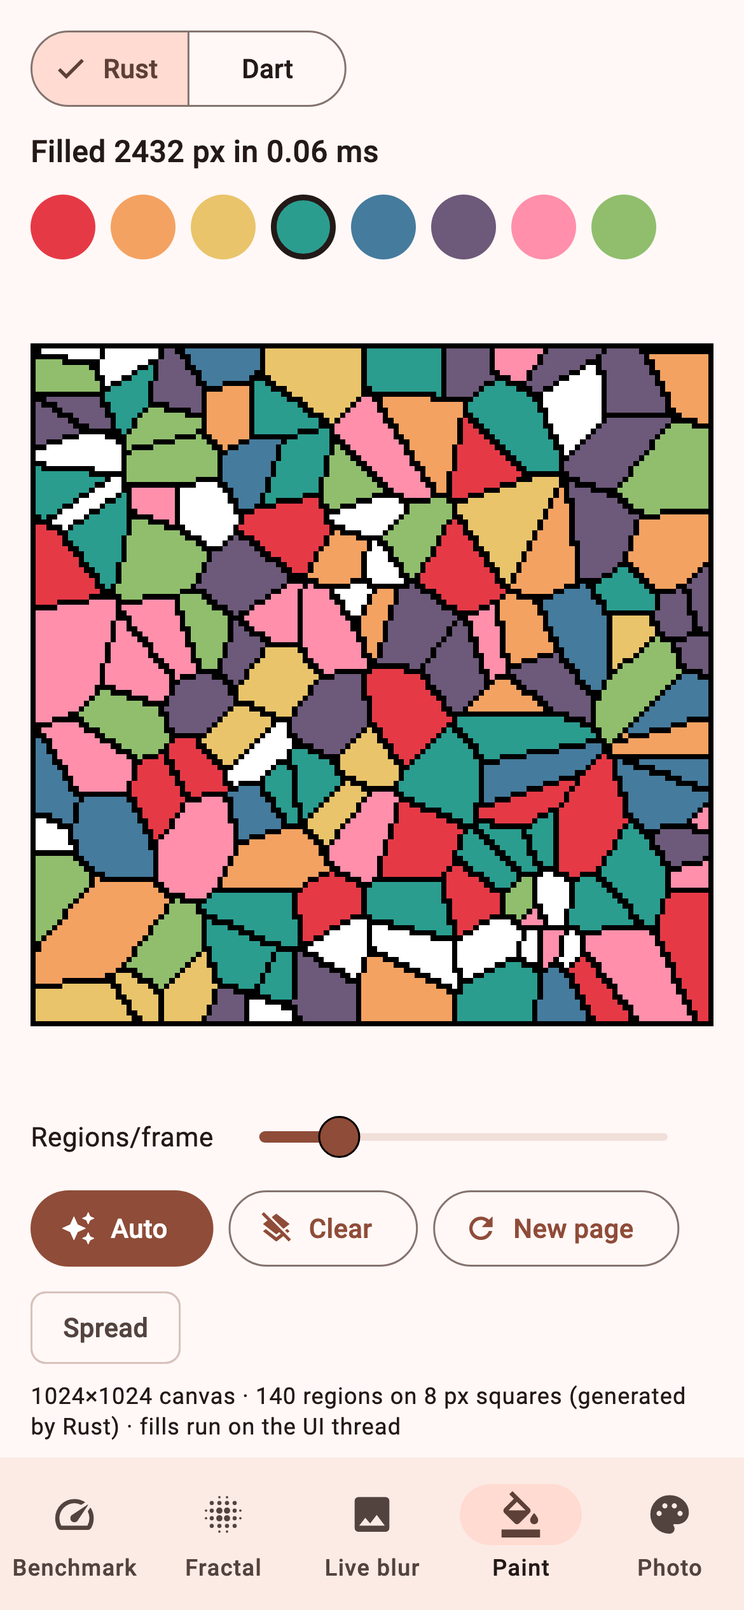
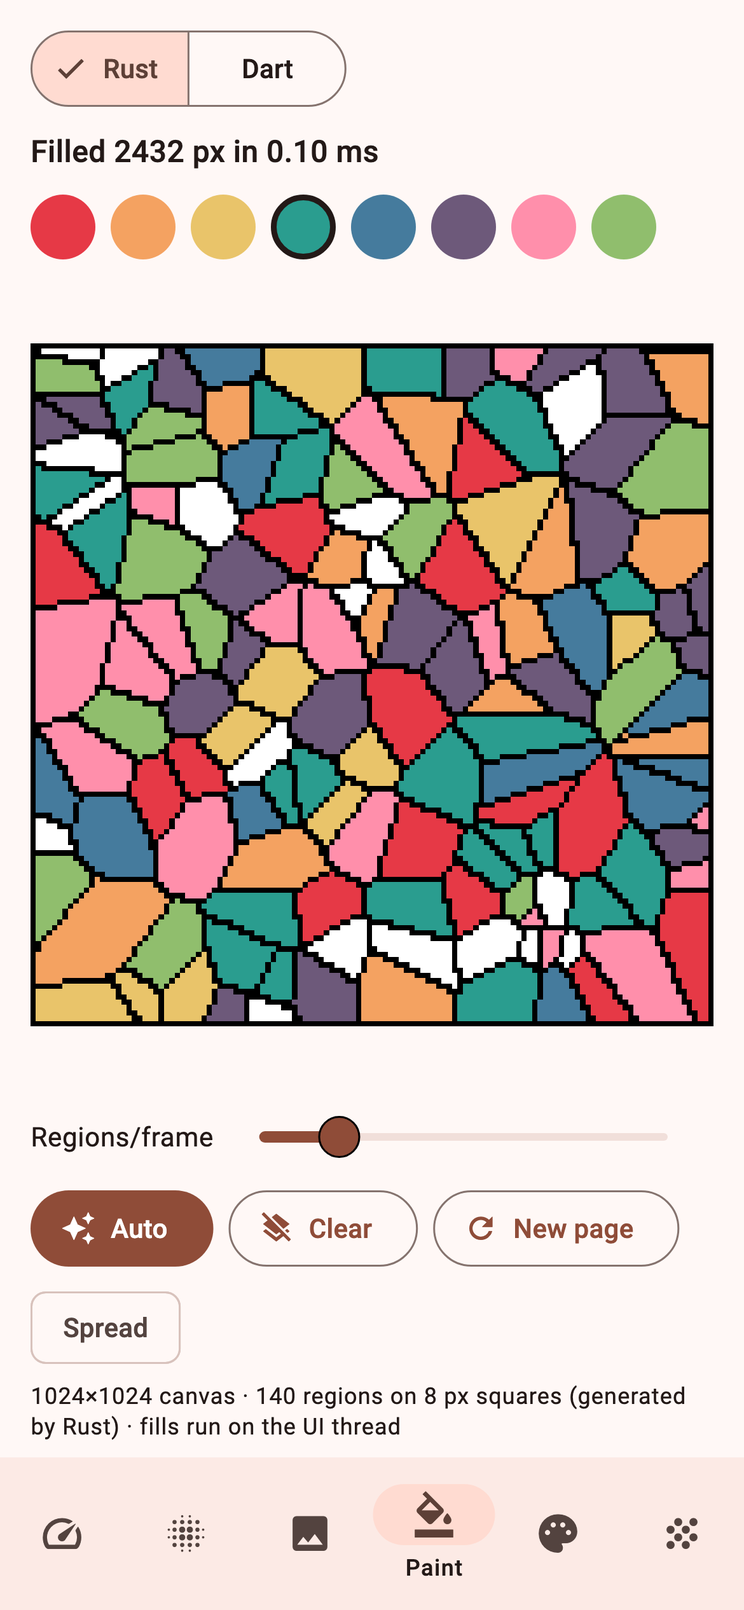
chore: prepare fast_rust 0.2.0

diff --git a/README.md b/README.md
@@ -5,8 +5,8 @@
 # flutter_rust: Flutter + Rust FFI for high-performance Flutter apps
 
 **Call Rust from Flutter/Dart with `dart:ffi`: no codegen, zero-copy, built automatically by native assets.**
-**Photo recoloring**, a **spreading fill**, **pixel-art flood fill**, image processing, hashing and
-sorting run **1.9× to 21× faster** than pure Dart. Every number is benchmarked and every result is verified by tests.
+**Photo recoloring**, **photo to coloring page**, a **spreading fill**, **pixel-art flood fill**,
+**falling sand**, image processing, hashing and sorting run **1.5× to 21× faster** than pure Dart. Every number is benchmarked and every result is verified by tests.
 
 [![pub package](https://img.shields.io/pub/v/fast_rust.svg)](https://pub.dev/packages/fast_rust)
 ![Flutter](https://img.shields.io/badge/Flutter-3.47-02569B?logo=flutter&logoColor=white)
@@ -14,7 +14,7 @@ sorting run **1.9× to 21× faster** than pure Dart. Every number is benchmarked
 ![Rust](https://img.shields.io/badge/Rust-%E2%89%A51.88-B7410E?logo=rust&logoColor=white)
 ![FFI](https://img.shields.io/badge/dart%3Affi-zero--copy-6f42c1)
 ![Dependencies](https://img.shields.io/badge/Rust%20deps-0-success)
-![Tests](https://img.shields.io/badge/tests-59%20passing-success)
+![Tests](https://img.shields.io/badge/tests-71%20passing-success)
 [![License: MIT](https://img.shields.io/badge/license-MIT-green.svg)](LICENSE)
 
 [Demo video](#demo-video) ·
@@ -61,6 +61,12 @@ enough.
 - 🖌 **Recolor real photos:** tap the hair and it turns pink, with every
   strand still visible. A magic-wand selection over the original pixels plus a
   brightness-preserving tint; a tap on a 505×607 photo takes 0.05 to 1.3 ms.
+- 🖍 **Photo to coloring page:** any photo becomes black outlines on white,
+  with closed regions ready to fill (blur, k-means, cleanup, outlines). It
+  takes about 116 ms in Rust and 730 ms in Dart for 1920×1080. **Color splash** comes
+  for free: gray the photo, then restore regions with `strength: 0`.
+- ⏳ **Falling sand:** a million cells of sand, water and walls are stepped
+  every frame by a deterministic cellular automaton.
 - 🌊 **Spreading fill:** the color flows out from the finger as a round wave
   that follows the region's shape (geodesic distances, Dijkstra with a bucket
   queue).
@@ -71,12 +77,17 @@ enough.
   load-balancing work queue. On an Apple M4, Mandelbrot runs **7.3×** faster.
 - 📱 **No UI jank:** the `...Async` functions run on a background isolate
   with *non-leaf* calls, so they block neither the UI thread nor the GC.
-- ✅ **Verified:** 59 tests across Rust, Dart and Flutter.
+- ✅ **Verified:** 71 tests across Rust, Dart and Flutter.
   - Rust output matches the pure-Dart implementation bit for bit.
   - SHA-256 output matches `package:crypto`.
 - 📦 **Small:** the Rust crate has zero dependencies, builds offline and is easy to audit.
 
 <div align="center">
+
+| Photo to coloring page | Color splash | Falling sand (1M cells) |
+|:---:|:---:|:---:|
+| <img src="docs/images/screenshot-lineart.png" alt="A photo turned into a coloring page by Rust in Flutter, partly filled" width="200"/> | <img src="docs/images/screenshot-splash.png" alt="Color splash in Flutter: gray photo with the hair restored by a Rust region selection" width="200"/> | <img src="docs/images/screenshot-sand.png" alt="Falling-sand simulation of a million cells stepped by Rust in Flutter" width="200"/> |
+| Rust turns the photo into outlines; tap regions to fill; *Reveal* uses the photo's own colors | Gray canvas; each tap copies the original colors of one region back | Pour sand and water, draw walls, add rain; switch to Dart and watch the FPS |
 
 | Photo recoloring in Rust | Pixel-art coloring in Rust | Fractal explorer in Rust | Real-time blur on the UI thread |
 |:---:|:---:|:---:|:---:|
@@ -91,8 +102,14 @@ enough.
   <img src="docs/video/demo.gif" width="320" alt="fast_rust demo video: recoloring hair and grass in a photo with a spreading fill, filling a pixel-art coloring page, Auto mode at 62 FPS and a Rust-rendered fractal zoom"/>
 </p>
 
-27 seconds of real app footage: photo recoloring with the spreading fill, the
-coloring book (spread, drag, Auto mode), and a fractal zoom. It is recorded
+52 seconds of real app footage:
+1. Photo recoloring with the spreading fill.
+2. Color splash.
+3. The photo turned into a coloring page, filled region by region, then
+   *Reveal*.
+4. Falling sand, switched between Rust and Dart.
+5. The pixel-art coloring book: spread, drag, and Auto mode.
+6. A fractal zoom. It is recorded
 headless by `examples/fast_rust_demo/tool/video_test.dart`. Full quality:
 [`docs/video/demo.mp4`](docs/video/demo.mp4).
 
@@ -157,8 +174,12 @@ each other. Both run on a solid 1920×1080 region, which selects the whole frame
 |--------------------------------------------------------|--------:|--------:|-----:|
 | Photo recolor (`recolorRegionRgba`)                    |   52.90 |   27.04 | 2.0× |
 | Spreading-fill distances (`spreadDistancesRgba`)       |  182.74 |   54.30 | 3.4× |
+| Photo to coloring page 1920×1080, demo settings (`photoToColoringPage`) | 731.88 | 115.62 | 6.3× |
+| Falling-sand step 1024×1024, random grid (`sandStep`)  |   13.75 |    8.96 | 1.5× |
 
-A tapped region in a real photo is usually far smaller. In the demo, one tap on
+The sand step is a sequential, branchy scan that AOT Dart handles well, so
+Rust gains only 1.5× there. A tapped region in a real photo is usually far
+smaller than the whole frame. In the demo, one tap on
 505×607 px takes 0.05 to 1.3 ms.
 
 One FFI call (leaf call, AOT) costs about **1.5 ns**. Results vary by about
@@ -204,6 +225,8 @@ flutter_rust/
 │   │       ├── image.rs             # Grayscale, separable box blur
 │   │       ├── fractal.rs           # Mandelbrot
 │   │       ├── coloring.rs          # Coloring pages, flood fill, photo recolor, spreading fill
+│   │       ├── lineart.rs           # Photo to coloring page: blur, k-means, cleanup, outlines
+│   │       ├── sand.rs              # Falling-sand cellular automaton
 │   │       └── numeric.rs           # f64 sort, prime sieve, dot product
 │   ├── hook/build.dart              # Build hook: runs cargo for the right target, registers the CodeAsset
 │   ├── lib/
@@ -212,17 +235,17 @@ flutter_rust/
 │   │       ├── bindings.dart        # @Native declarations (leaf and non-leaf)
 │   │       ├── api.dart             # Safe API: class FastRust
 │   │       └── dart_reference.dart  # Same algorithms in pure Dart (oracle and baseline)
-│   ├── test/fast_rust_test.dart     # 34 tests: correctness, validation, async, coloring, recolor
+│   ├── test/fast_rust_test.dart     # 40 tests: correctness, validation, async, coloring, recolor, sand
 │   ├── example/fast_rust_example.dart # Command-line tour: every kernel in Rust and Dart, outputs compared
 │   ├── benchmark/benchmark.dart     # Command-line benchmark (--json exports results)
 │   └── tool/readme_images.dart      # Generates the README charts and images from real output
 └── examples/fast_rust_demo/         # Flutter demo app
     ├── lib/
-    │   ├── main.dart                # 5 tabs, each built on first visit
+    │   ├── main.dart                # 6 tabs, each built on first visit
     │   ├── benchmarks.dart          # Benchmark cases run on a background isolate
     │   ├── engine.dart              # Rust/Dart enum, RGBA to ui.Image
     │   ├── spread.dart              # One running spreading-fill animation
-    │   └── pages/                   # benchmark, fractal, blur, paint and photo pages
+    │   └── pages/                   # benchmark, fractal, blur, paint, photo and sand pages
     ├── test/app_test.dart           # Widget tests (load the real Rust library through native assets)
     ├── assets/photo.jpg             # Photo used by the Photo tab
     └── tool/                        # screenshots_test.dart, video_test.dart, make_video.sh
@@ -371,6 +394,10 @@ Everything lives in `abstract final class FastRust`.
 | `recolorRegionRgba(source, target, width:, height:, x:, y:, color:, tolerance:, strength:) → int` | sync, leaf, zero-copy | Photo recoloring. Selects the 4-connected region of `source` whose RGB is within `tolerance` of the tapped pixel, then writes a luminance-preserving tint of those pixels into `target`; `strength` (0–255) blends from the original color to the full tint. `source` is only read. Returns the number of written pixels. |
 | `spreadDistancesRgba(source, distances, width:, height:, x:, y:, tolerance:) → int` | sync, leaf, zero-copy | Spreading fill, step 1: writes each region pixel's geodesic distance from the tap into a `Uint32List` (`spreadStep` = 5 units per orthogonal pixel, 7 per diagonal), and `unreached` outside the region. Returns the largest distance. |
 | `paintByDistanceRgba(source, target, distances, width:, height:, from:, to:, color:, strength:, tint:) → int` | sync, leaf, multi-threaded | Spreading fill, step 2: paints the pixels with `from ≤ distance < to`, as a flat color or (`tint: true`) a tint of `source`. Consecutive frames never paint a pixel twice. |
+| `photoToColoringPage(rgba, width:, height:, colors:, smooth:, minRegion:, lineWidth:) → ColoringPage` | sync, non-leaf, multi-threaded | Photo to coloring page: box blur, k-means into `colors` clusters, two 3×3 majority filters, merge of regions under `minRegion` px, outlines `lineWidth` px wide plus a frame. Returns `rgba` (black on white), `labels` (cluster per pixel, `lineLabel` on outlines) and `palette` (the photo's colors). |
+| `photoToColoringPageAsync(...) → Future<ColoringPage>` | background isolate | Same, in the background. |
+| `sandStep(cells, width:, height:, frame:) → int` | sync, leaf, in place | One falling-sand step on a grid of `SandMaterial` values (empty, wall, sand, water). Deterministic for a given frame. Returns how many particles moved. |
+| `sandRenderRgba(cells, rgba, width:, height:)` | sync, leaf, multi-threaded | Draws the grid into RGBA8888. |
 | `countPrimes(int) → int` | sync, non-leaf | Number of primes ≤ limit (odd-only sieve). |
 | `dot(Float64List, Float64List) → double` | sync, leaf | Dot product with 4 accumulators so LLVM can vectorize. |
 | `threadCount` / `setThreadLimit(int)` | | Read or cap the number of Rust threads (`0` = default: one per core, at most 16). |
@@ -489,7 +516,7 @@ the radius.
 
 ## 9. Demo app
 
-`examples/fast_rust_demo` has 5 tabs. Each tab is built on first visit, so no
+`examples/fast_rust_demo` has 6 tabs. Each tab is built on first visit, so no
 heavy work runs at startup.
 
 | Tab | What it shows |
@@ -497,7 +524,8 @@ heavy work runs at startup.
 | **Benchmark** | Tap *Run all*: each case runs in Dart and in Rust on a background isolate, then the tab shows comparison bars and the speedup. Debug builds show a warning. |
 | **Fractal** | Explore the Mandelbrot set at screen resolution (up to 1200 px). Tap to zoom in, long-press to zoom out, adjust the iteration count, and switch between the Rust and Dart engines to compare render times. Rendering runs on a background isolate with a non-leaf call, so the UI stays smooth. |
 | **Paint** (coloring) | A 1024×1024 pixel-art coloring book generated by Rust. The page does not scroll, so every drag paints. Pick a color, then **tap or drag your finger** to fill regions with the flood fill; the app shows the pixel count and time of each fill. **Spread** makes each tap flow out as a wave (flat color, `paintByDistanceRgba`). **Auto** refills *N* random regions every frame (slider: 1–200) and shows **FPS** plus the fill time per frame. Switch Rust/Dart to compare on your own device. FPS also depends on image upload time, not just fill time. |
-| **Photo** (recolor) | A real 505×607 photo, decoded once into RGBA bytes. Pick a color and **tap or drag** on the hair, the grass or the road: `recolorRegionRgba` selects similar connected pixels and tints them while keeping their brightness. With **Spread** on (the default), the color flows out from the finger frame by frame instead, and every drag step starts a new flow, like a brush. *Tolerance* and *Strength* sliders, **Undo** (20 steps), **Reset**, and **Hold: original** to compare. The caption shows the distance pass and per-frame paint times. |
+| **Photo** (Recolor / Splash / Line art) | **Splash** turns the photo gray and each tap restores one region's colors (`recolorRegionRgba` with `strength: 0`). **Line art** turns the photo into a coloring page with `photoToColoringPage` (the *Detail* slider sets the number of colors); taps fill regions with a flat color, and **Reveal** paints every region in the photo's own colors. **Recolor**, described next, is the default mode. A real 505×607 photo, decoded once into RGBA bytes. Pick a color and **tap or drag** on the hair, the grass or the road: `recolorRegionRgba` selects similar connected pixels and tints them while keeping their brightness. With **Spread** on (the default), the color flows out from the finger frame by frame instead, and every drag step starts a new flow, like a brush. *Tolerance* and *Strength* sliders, **Undo** (20 steps), **Reset**, and **Hold: original** to compare. The caption shows the distance pass and per-frame paint times. |
+| **Sand** | A 1024×1024 falling-sand world (about a million cells). Drag to pour sand or water, draw walls, or erase. **Rain** adds two streams, **Speed** sets steps per frame (1–6), and **Scene** restores the starting ramps and cup. The caption shows step and render times. Switch to Dart to watch the FPS drop. |
 | **Live blur** | A 1280×800 image (itself rendered by Rust) is blurred on the UI thread on every slider move. The screen shows the time per frame against the 16.7 ms budget. If the progress spinner freezes, the UI thread is blocked. |
 
 Run it:
@@ -511,9 +539,9 @@ flutter run --profile      # representative numbers; use --release for the real 
 
 | Command | What it checks |
 |---|---|
-| `cd packages/fast_rust/rust && cargo test --release` | **18 Rust tests:**<br>• flood fill matches BFS on random coloring pages, including tolerance<br>• the spreading fill covers exactly the 4-connected region, spreads as a round wave and paints each pixel once<br>• the tint keeps black, white and alpha, and recolor never writes outside the region<br>• SHA-256 NIST vectors<br>• blur matches a naive O(r²) version, even with a radius larger than the image<br>• parallel output matches serial<br>• NaN ordering<br>• prime sieve<br>• the FFI rejects nulls and bad sizes |
-| `cd packages/fast_rust && dart test` | **34 tests:**<br>• coloring pages (including negative seeds and seeds ≥ 2⁶³) and flood fills match the Dart reference pixel for pixel, including on unaligned buffers<br>• photo recolor and spreading-fill distances and rings match the Dart reference pixel for pixel on a fractal "photo" at several tolerances<br>• Rust matches `package:crypto` and `DartReference` bit for bit<br>• views with offsets<br>• input validation<br>• the async non-leaf variants<br>• NaN order<br>• thread limits do not change results |
-| `cd examples/fast_rust_demo && flutter test` | **7 tests:**<br>• the Paint tab fills on a vertical drag (without scrolling), with Spread, and in Auto mode<br>• the Photo tab spreads a fill over several frames, recolors on drag without scrolling, and undoes each stroke<br>• Rust loads inside `flutter test`<br>• pages build lazily<br>• the fractal renders through an isolate<br>• live blur renders a frame<br>• a benchmark case runs |
+| `cd packages/fast_rust/rust && cargo test --release` | **22 Rust tests:**<br>• a photo with two halves becomes two framed regions with an outline between them, tiny speckles merge away, and the output is deterministic<br>• sand falls and piles up, water levels out, sand sinks through water, and walls hold<br>• flood fill matches BFS on random coloring pages, including tolerance<br>• the spreading fill covers exactly the 4-connected region, spreads as a round wave and paints each pixel once<br>• the tint keeps black, white and alpha, and recolor never writes outside the region<br>• SHA-256 NIST vectors<br>• blur matches a naive O(r²) version, even with a radius larger than the image<br>• parallel output matches serial<br>• NaN ordering<br>• prime sieve<br>• the FFI rejects nulls and bad sizes |
+| `cd packages/fast_rust && dart test` | **40 tests:**<br>• photo to coloring page matches the Dart reference (page, labels, palette) for four settings, is black and white with a frame, and can be filled<br>• 60 falling-sand steps match the Dart reference cell for cell on four grid sizes, material is conserved, and sand comes to rest<br>• coloring pages (including negative seeds and seeds ≥ 2⁶³) and flood fills match the Dart reference pixel for pixel, including on unaligned buffers<br>• photo recolor and spreading-fill distances and rings match the Dart reference pixel for pixel on a fractal "photo" at several tolerances<br>• Rust matches `package:crypto` and `DartReference` bit for bit<br>• views with offsets<br>• input validation<br>• the async non-leaf variants<br>• NaN order<br>• thread limits do not change results |
+| `cd examples/fast_rust_demo && flutter test` | **9 tests:**<br>• Photo splash and line-art modes: a tap restores or fills a region, and Reveal is undoable<br>• the Sand tab simulates, pours on drag without scrolling, and runs with both engines<br>• the Paint tab fills on a vertical drag (without scrolling), with Spread, and in Auto mode<br>• the Photo tab spreads a fill over several frames, recolors on drag without scrolling, and undoes each stroke<br>• Rust loads inside `flutter test`<br>• pages build lazily<br>• the fractal renders through an isolate<br>• live blur renders a frame<br>• a benchmark case runs |
 | `dart run benchmark/benchmark.dart` | Table comparing Dart, Rust 1T and Rust nT. |
 
 Lints: `cargo clippy --release --all-targets`, `dart analyze`, `flutter analyze`.
@@ -694,7 +722,7 @@ flutter test tool/video_test.dart && tool/make_video.sh               # demo vid
 |---|---|
 | `benchmark-light.svg`, `benchmark-dark.svg` | `tool/readme_images.dart`, from `docs/benchmark.json` |
 | `mandelbrot.png`, `blur-before-after.png` | `FastRust.mandelbrotRgba` and `FastRust.boxBlurRgba` |
-| `screenshot-*.png` (photo, fractal, blur, paint) | Golden tests of the demo app, with real Roboto fonts |
+| `screenshot-*.png` (photo, line art, splash, sand, fractal, blur, paint) | Golden tests of the demo app, with real Roboto fonts |
 | `docs/video/demo.mp4`, `demo.gif` | `tool/video_test.dart` records frames of the real app; `tool/make_video.sh` encodes them with ffmpeg |
 | `banner.png` | AI-generated illustration; contains no data |
 
@@ -707,7 +735,8 @@ flutter test tool/video_test.dart && tool/make_video.sh               # demo vid
 **Keywords:** Flutter Rust · Flutter FFI · dart:ffi · call Rust from Flutter ·
 Flutter performance optimization · speed up Flutter · native assets · build hooks ·
 Flutter image processing · Flutter photo editor · recolor image · magic wand ·
-Flutter coloring app · flood fill · spreading fill · pixel art ·
+Flutter coloring app · photo to line art · coloring page generator · color splash ·
+falling sand · cellular automaton · flood fill · spreading fill · pixel art ·
 coloring book · Rust cdylib · flutter_rust_bridge alternative · Dart isolate ·
 Flutter performance
 

diff --git a/packages/fast_rust/README.md b/packages/fast_rust/README.md
@@ -14,9 +14,11 @@ calls it through `dart:ffi` `@Native` functions. Rust reads and writes your
 `flutter test`. There is no codegen and no Gradle, CMake or Podspec to edit.
 
 It is built for apps that edit pixels: **recolor regions of a real photo**
-while keeping its texture, **flood-fill** a coloring book, animate a fill that
+while keeping its texture, **turn a photo into a coloring page**, do a
+**color splash**, **flood-fill** a coloring book, animate a fill that
 **spreads out from the finger**, and **blur** images in real time. It also
-covers SHA-256, sorting and number crunching. Every Rust kernel has a pure-Dart
+runs a **falling-sand simulation** of a million cells, plus SHA-256, sorting
+and number crunching. Every Rust kernel has a pure-Dart
 twin (`DartReference`), and the tests check that both give identical output
 (sorting differs only in where NaN goes).
 
@@ -26,6 +28,9 @@ twin (`DartReference`), and the tests check that both give identical output
 - [Quick start](#quick-start)
 - [Recolor a photo](#recolor-a-photo)
 - [Spreading fill](#spreading-fill-paint-that-flows)
+- [Photo to coloring page](#photo-to-coloring-page)
+- [Color splash](#color-splash)
+- [Falling sand](#falling-sand)
 - [Coloring book flood fill](#coloring-book-flood-fill)
 - [Other kernels](#other-kernels)
 - [Sync or async](#sync-or-async)
@@ -36,12 +41,16 @@ twin (`DartReference`), and the tests check that both give identical output
 ## Demo
 
 <p align="center">
-  <img src="https://raw.githubusercontent.com/winterzxzz/flutter_rust/main/docs/video/demo.gif" width="320" alt="fast_rust demo: recoloring hair and grass in a photo with a spreading fill, filling a pixel-art coloring page and zooming a Rust-rendered fractal">
+  <img src="https://raw.githubusercontent.com/winterzxzz/flutter_rust/main/docs/video/demo.gif" width="300" alt="fast_rust demo: recoloring a photo with a spreading fill, color splash, turning the photo into a coloring page, falling sand, a pixel-art coloring page and a Rust-rendered fractal">
 </p>
 
 Real footage of the [demo app](https://github.com/winterzxzz/flutter_rust/tree/main/examples/fast_rust_demo),
 recorded headless with `flutter test`. Full-quality video:
 [demo.mp4](https://github.com/winterzxzz/flutter_rust/raw/main/docs/video/demo.mp4).
+
+| Photo to coloring page | Color splash | Falling sand |
+| :---: | :---: | :---: |
+| <img src="https://raw.githubusercontent.com/winterzxzz/flutter_rust/main/docs/images/screenshot-lineart.png" width="200" alt="A photo turned into a coloring page by Rust in Flutter, partly filled"> | <img src="https://raw.githubusercontent.com/winterzxzz/flutter_rust/main/docs/images/screenshot-splash.png" width="200" alt="Color splash in Flutter: the photo is gray except the hair, restored by a Rust region selection"> | <img src="https://raw.githubusercontent.com/winterzxzz/flutter_rust/main/docs/images/screenshot-sand.png" width="200" alt="Falling-sand simulation of a million cells stepped by Rust in Flutter"> |
 
 | Recolor a photo | Coloring book | Fractal explorer | Live blur |
 | :---: | :---: | :---: | :---: |
@@ -60,8 +69,19 @@ recorded headless with `flutter test`. Full-quality video:
 - **`floodFillRgba`**: a scanline paint bucket with a per-channel tolerance.
   It fills a solid 2-megapixel region in about 3 ms; a few-thousand-pixel
   region takes about 0.1 ms, fast enough to fill on every `onPanUpdate`.
+- **`photoToColoringPage`**: turns any photo into a coloring page: black
+  outlines around regions of similar colour, closed and ready to fill. It also
+  returns the photo's palette and a label map, for a "reveal" or
+  color-by-number mode.
+- **Color splash**: gray out a photo with `grayscaleRgba`, then bring the
+  colour back region by region with `recolorRegionRgba(strength: 0)`.
 - **`coloringPageRgba`**: generates pixel-art coloring pages (Voronoi regions,
   black outlines) from a seed.
+
+### Simulation
+- **`sandStep` + `sandRenderRgba`**: a deterministic falling-sand cellular
+  automaton. Sand piles up and sinks through water, water flows and levels
+  out, and walls hold.
 
 ### Image processing
 - **`boxBlurRgba`**: multi-threaded box blur, O(pixels) for any radius.
@@ -79,7 +99,7 @@ recorded headless with `flutter test`. Full-quality video:
 - Real multi-threading with a load-balancing work queue (Mandelbrot: 7.3×
   faster on an Apple M4).
 - The Rust crate has **zero dependencies** and builds offline.
-- 59 tests across Rust, Dart and Flutter. Rust output matches `DartReference`
+- 71 tests across Rust, Dart and Flutter. Rust output matches `DartReference`
   bit for bit (except NaN placement when sorting), and SHA-256 matches
   `package:crypto`.
 
@@ -205,6 +225,84 @@ to an orthogonal one, so the color never leaks through a one-pixel diagonal gap
 in an outline. The pass is O(pixels). Pixels outside the region get
 `FastRust.unreached`.
 
+## Photo to coloring page
+
+```dart
+final page = await FastRust.photoToColoringPageAsync(
+  photoRgba,
+  width: w,
+  height: h,
+  colors: 6,                // fewer colors = fewer, bigger regions
+  smooth: 5,                // blur radius that removes texture first
+  minRegion: w * h ~/ 500,  // merge regions under 0.2% of the photo
+  lineWidth: 2,
+);
+
+// page.rgba: black outlines on white. Fill it like any coloring page:
+FastRust.floodFillRgba(page.rgba, width: w, height: h, x: tapX, y: tapY,
+    color: 0xE63946FF);
+
+// page.labels / page.palette: each pixel's color cluster and the photo's
+// own colors, so you can "reveal" the finished picture.
+```
+
+How it works, all in Rust:
+
+1. **Box blur** with radius `smooth` removes fine texture.
+2. **k-means** (6 rounds) groups the pixels into `colors` clusters. It is
+   seeded from luminance quantiles, so the result is deterministic.
+3. **Two 3×3 majority filters** remove speckles.
+4. **Small regions merge.** Any region smaller than `minRegion` pixels joins
+   the neighbor it shares the longest border with. This repeats until no
+   region changes, at most 8 passes.
+5. **Outlines** of `lineWidth` pixels are drawn where the cluster changes,
+   plus a frame.
+
+The steps are multi-threaded where possible. With the settings above, a
+1920×1080 image takes about 116 ms in Rust and 730 ms in Dart.
+
+## Color splash
+
+No extra kernel is needed. `recolorRegionRgba` with `strength: 0` copies the
+original pixels of the selected region:
+
+```dart
+final canvas = Uint8List.fromList(photo);
+FastRust.grayscaleRgba(canvas);
+// On each tap:
+FastRust.recolorRegionRgba(photo, canvas,
+    width: w, height: h, x: tapX, y: tapY, color: 0, tolerance: 28, strength: 0);
+```
+
+The spreading fill works the same way: call `paintByDistanceRgba(...,
+tint: true, strength: 0)`.
+
+## Falling sand
+
+```dart
+const w = 1024, h = 1024;
+final cells = Uint8List(w * h);          // SandMaterial.empty everywhere
+final rgba = Uint8List(w * h * 4);
+cells[10] = SandMaterial.sand;           // pour, draw walls, etc.
+
+// Every frame (in a Ticker):
+FastRust.sandStep(cells, width: w, height: h, frame: frame++);
+FastRust.sandRenderRgba(cells, rgba, width: w, height: h);
+// then show rgba with ui.decodeImageFromPixels
+```
+
+The rules:
+
+- **Scan order:** rows are processed bottom-up, and the column direction
+  alternates every frame. Each particle moves at most once per step.
+- **Sand** falls, slides diagonally and sinks through water.
+- **Water** falls, slides, and spreads sideways.
+- **Walls** never move.
+
+Water pushed up by sinking sand also counts as moved. Random choices are a
+hash of (x, y, frame), so a run can be replayed exactly, and
+`DartReference.sandStep` matches it cell for cell.
+
 ## Coloring book flood fill
 
 ```dart
@@ -236,8 +334,11 @@ called. Native errors throw `FastRustException`.
 
 ## Sync or async
 
-- **Sync methods** are *leaf* calls on your own buffers. They are the fastest,
-  but they block the calling isolate and pause GC while they run. Use them for
+- **Most sync methods** are *leaf* calls on your own buffers. They are the
+  fastest, but they block the calling isolate and pause GC while they run.
+  `mandelbrotRgba`, `countPrimes` and `photoToColoringPage` are non-leaf calls
+  on native memory instead, so they do not pause GC, but they still block the
+  calling isolate. Use them for
   work of a few milliseconds, such as a tap fill or a per-frame blur.
 - **`...Async` methods** copy the input to native memory, run a *non-leaf*
   call on a background isolate, and return a new list. Use them for anything
@@ -259,10 +360,15 @@ AOT (`dart build cli`), median of 9 runs, Apple M4 with 10 threads.
 The newer pixel kernels were measured on a different machine (Apple M1 Pro,
 8 threads, under background load), so compare them only with each other:
 
-| Task (1920×1080, one region) | Dart | Rust |
+| Task | Dart | Rust |
 |---|---:|---:|
-| Photo recolor (`recolorRegionRgba`) | 52.9 ms | 27.0 ms (2.0×) |
-| Spreading-fill distances (`spreadDistancesRgba`) | 182.7 ms | 54.3 ms (3.4×) |
+| Photo recolor, 1920×1080 region (`recolorRegionRgba`) | 52.9 ms | 27.0 ms (2.0×) |
+| Spreading-fill distances, 1920×1080 (`spreadDistancesRgba`) | 182.7 ms | 54.3 ms (3.4×) |
+| Photo to coloring page, 1920×1080, demo settings (`photoToColoringPage`) | 731.9 ms | 115.6 ms (6.3×) |
+| Falling-sand step, 1024×1024 (`sandStep`) | 13.8 ms | 9.0 ms (1.5×) |
+
+The sand step is a sequential, branchy scan, which AOT Dart handles well, so
+Rust gains only about 1.5×. It is the honest exception in this table.
 
 On a real photo, a tapped region is usually far smaller than the whole frame.
 In the demo app, one tap on 505×607 px takes 0.05–1.3 ms. Phones are slower than
@@ -314,8 +420,8 @@ No. `dart:ffi` is not available on the web.
   a command-line tour that runs each kernel in Rust and in Dart and checks that
   the outputs match. Run it with `dart run example/fast_rust_example.dart`.
 - [`examples/fast_rust_demo`](https://github.com/winterzxzz/flutter_rust/tree/main/examples/fast_rust_demo):
-  a Flutter app with five tabs (Benchmark, Fractal, Live blur, Paint, Photo)
-  and a Rust/Dart switch on each.
+  a Flutter app with six tabs (Benchmark, Fractal, Live blur, Paint, Photo
+  with Recolor/Splash/Line art modes, Sand) and a Rust/Dart switch on each.
 
 ## License
 

diff --git a/packages/fast_rust/CHANGELOG.md b/packages/fast_rust/CHANGELOG.md
@@ -1,3 +1,18 @@
+## 0.2.0
+
+* Photo to coloring page: `FastRust.photoToColoringPage` (and `...Async`)
+  turns a photo into black outlines on white, ready to fill. It blurs,
+  quantizes colours with k-means, removes speckles with a majority filter,
+  merges regions smaller than `minRegion`, and draws `lineWidth`-pixel
+  outlines plus a frame. Returns a `ColoringPage` with the page, a label
+  map and the photo's palette (for a "reveal" or color-by-number mode).
+* Falling sand: `FastRust.sandStep` advances a sand/water/wall grid by one
+  deterministic step; `FastRust.sandRenderRgba` draws it. Cell values are
+  in `SandMaterial`.
+* `spreadDistancesRgba` and `paintByDistanceRgba` now reject a `distances`
+  buffer that overlaps the image buffers.
+* `DartReference` versions of all new kernels, matching Rust bit for bit.
+
 ## 0.1.0
 
 * Initial release. Rust kernels called through zero-copy `dart:ffi`
